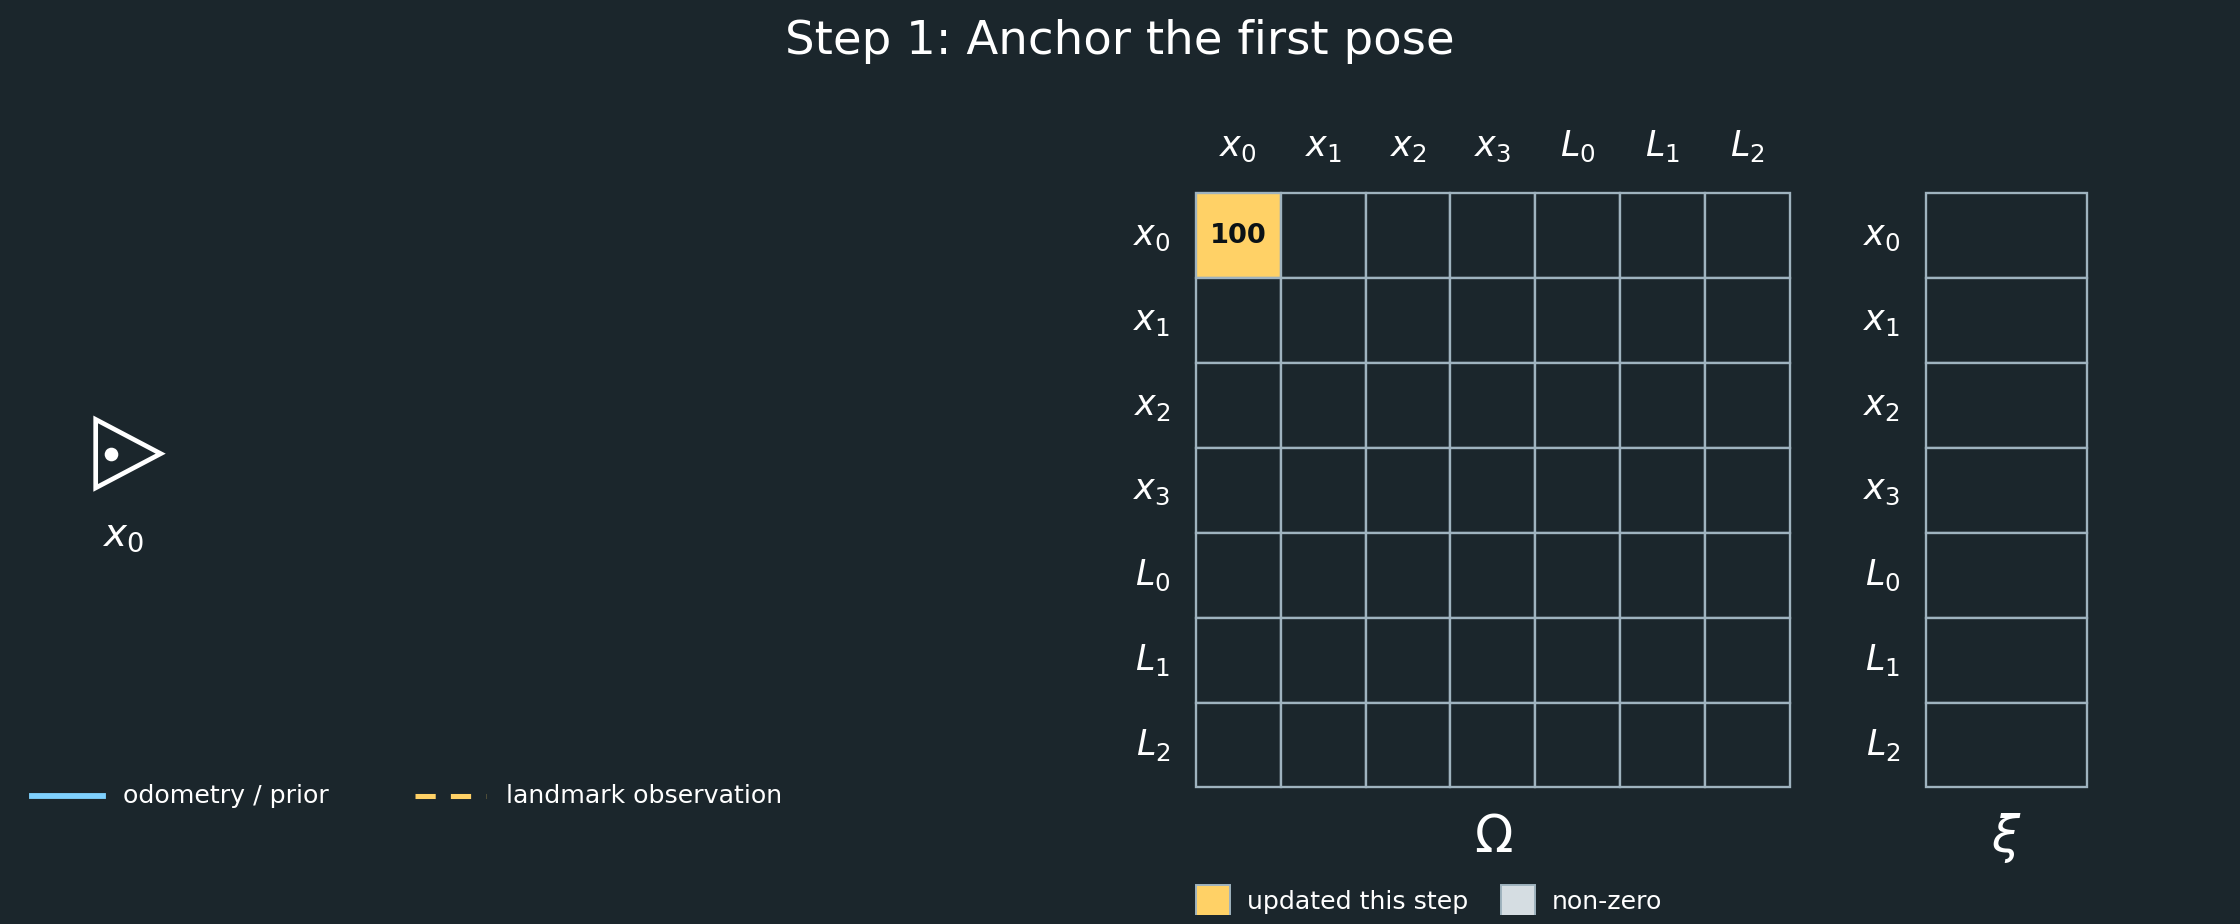
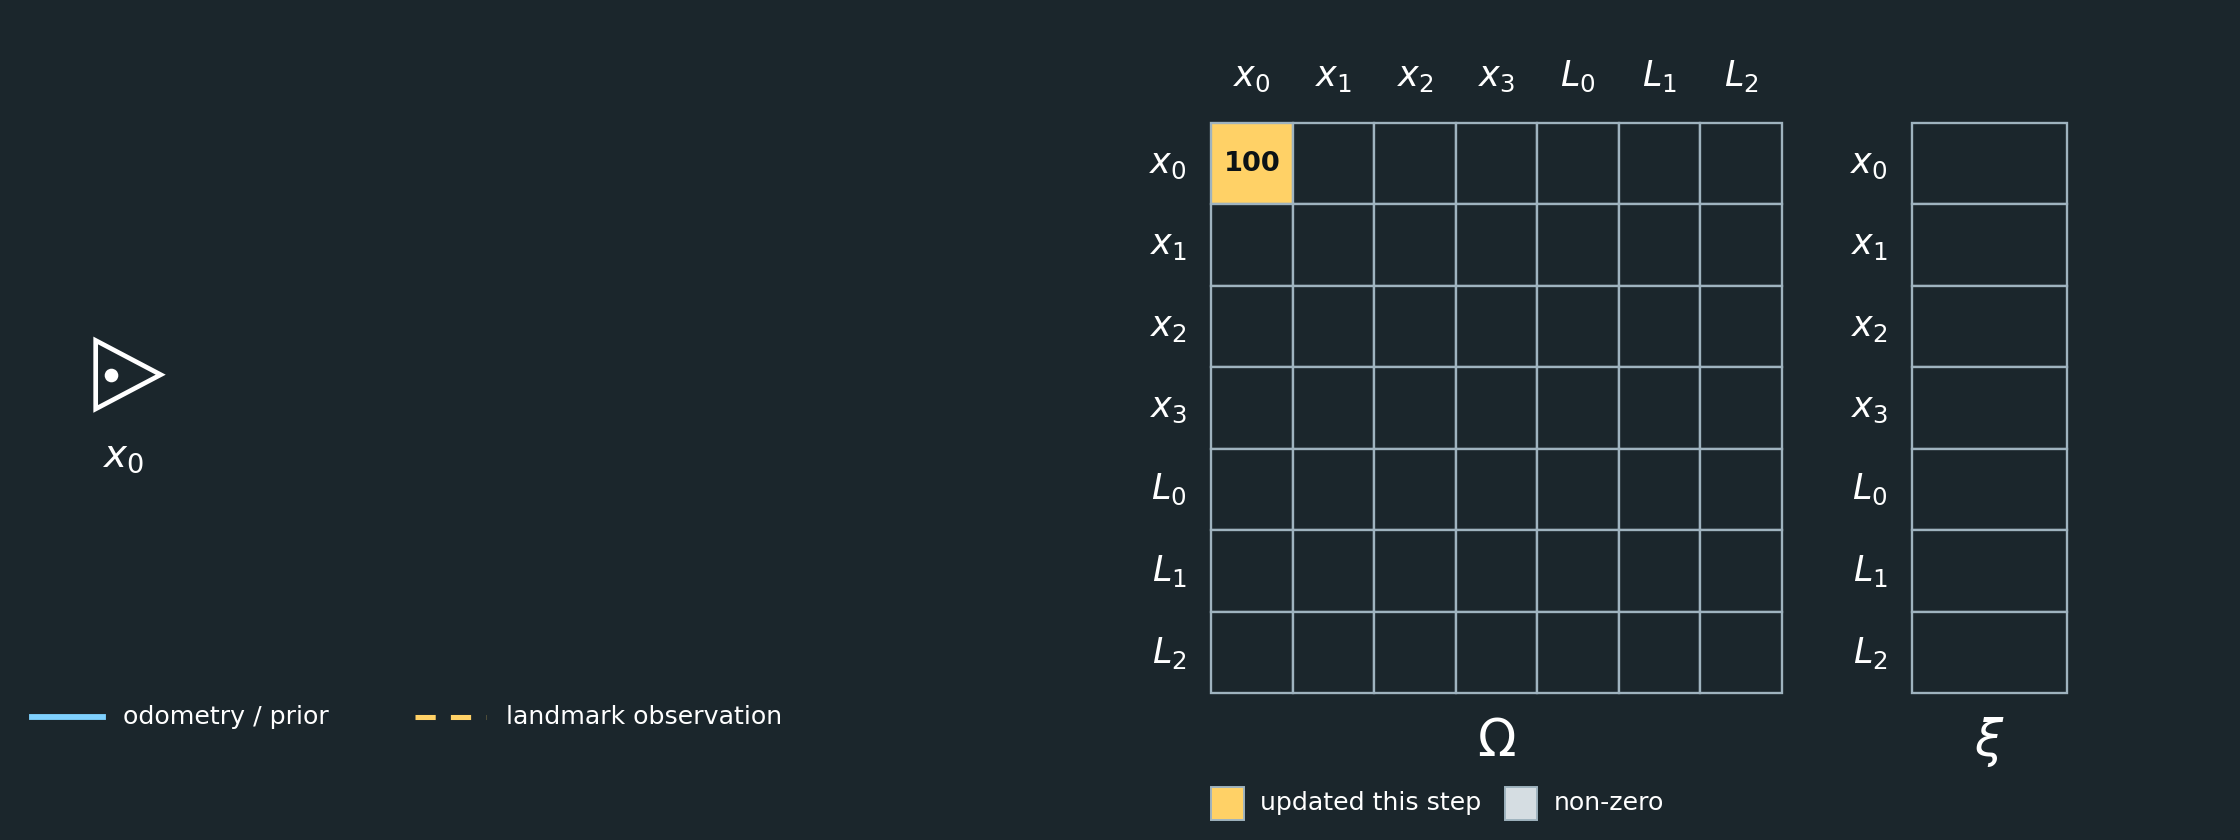
Update 1D GraphSLAM example documentation and improve figure layouts

diff --git a/Graph_SLAM/generate_step_figures.py b/Graph_SLAM/generate_step_figures.py
@@ -129,7 +129,7 @@ def draw_graph(ax, nodes, edges):
 def draw_system(ax, omega, xi, prev_omega, prev_xi):
     n = len(NAMES)
     ax.set_xlim(-1.3, 10.6)
-    ax.set_ylim(n + 1.5, -1.3)
+    ax.set_ylim(n + 1.8, -1.3)
     ax.set_aspect("equal")
     ax.axis("off")
     xi_x, xi_w = 8.6, 1.9
@@ -187,9 +187,9 @@ def star_marker():
     return pts
 
 
-def draw_world(fig, title, odoms, obs, positions, conflict_note):
+def draw_world(fig, odoms, obs, positions, conflict_note):
     """Literal 1D view: every node sits at its measured position on one metre axis."""
-    ax = fig.add_axes([0.02, 0.02, 0.96, 0.84])
+    ax = fig.add_axes([0.02, 0.01, 0.96, 0.98])
     ax.set_facecolor(BG)
     ax.set_xlim(-1.9, 6.1)
     ax.set_ylim(-5.0, 6.8)
@@ -255,10 +255,6 @@ def draw_world(fig, title, odoms, obs, positions, conflict_note):
     if conflict_note:
         ax.text(5.95, -4.6, conflict_note, color=CONFLICT, fontsize=14, ha="right", va="center")
 
-    fig.text(0.5, 0.955, title, color=TEXT, fontsize=24, ha="center", va="center")
-    fig.text(0.5, 0.905, "1D world view: every pose and landmark placed on one line at the position its "
-             "measurements imply", color=GRID, fontsize=14, ha="center", va="center")
-
 
 def main():
     os.makedirs(OUT_DIR, exist_ok=True)
@@ -269,7 +265,7 @@ def main():
     odoms, obs = [], []
     conflict_note = ""
 
-    for (title, measurements), fname, world_fname in zip(STEPS, FILES, WORLD_FILES):
+    for (_, measurements), fname, world_fname in zip(STEPS, FILES, WORLD_FILES):
         prev_omega, prev_xi = omega.copy(), xi.copy()
         for kind, a, b, z, w in measurements:
             add_measurement(omega, xi, kind, a, b, z, w)
@@ -293,15 +289,14 @@ def main():
                 obs.append((a, b, z, end, conflict))
         conflict_note_fig = conflict_note.replace("L0", "$L_0$").replace("x0", "$x_0$").replace("x1", "$x_1$")
 
-        fig = plt.figure(figsize=(16, 6.6), facecolor=BG)
-        fig.text(0.5, 0.955, title, color=TEXT, fontsize=24, ha="center", va="center")
-        draw_graph(fig.add_axes([0.01, 0.03, 0.40, 0.86]), nodes, edges)
-        draw_system(fig.add_axes([0.43, 0.01, 0.56, 0.90]), omega, xi, prev_omega, prev_xi)
+        fig = plt.figure(figsize=(16, 6.0), facecolor=BG)
+        draw_graph(fig.add_axes([0.01, 0.02, 0.40, 0.96]), nodes, edges)
+        draw_system(fig.add_axes([0.43, 0.0, 0.56, 0.98]), omega, xi, prev_omega, prev_xi)
         fig.savefig(os.path.join(OUT_DIR, fname), dpi=140, facecolor=BG)
         plt.close(fig)
 
-        fig = plt.figure(figsize=(16, 7.4), facecolor=BG)
-        draw_world(fig, title, odoms, obs, positions, conflict_note_fig)
+        fig = plt.figure(figsize=(16, 6.6), facecolor=BG)
+        draw_world(fig, odoms, obs, positions, conflict_note_fig)
         fig.savefig(os.path.join(OUT_DIR, world_fname), dpi=140, facecolor=BG)
         plt.close(fig)
 

diff --git a/Graph_SLAM/graphslam_1d_example.md b/Graph_SLAM/graphslam_1d_example.md
@@ -112,6 +112,10 @@ So:
 
 ## Step 1: Anchor the First Pose
 
+Each step begins with a literal **1D world view**. Every pose and landmark is placed on a single metre axis at the position its measurements imply. Blue arrows below the axis are odometry measurements, and yellow arrows above it are landmark observations, each spanning the distance it measures. Landmarks are drawn slightly above the axis only so they do not overlap poses at nearly the same position; the dotted guide lines show where they sit on the axis. A red arrow marks an observation that disagrees with an earlier one.
+
+![Step 1 on a number line: only the anchored pose x0 at 0 m exists, held by a high-confidence prior.](images/step1_world_1d.png)
+
 SLAM only determines relative positions unless we choose a reference frame.
 
 We therefore define
@@ -182,15 +186,13 @@ It means:
 
 ![Step 1: a single anchored pose node with a strong prior. The information matrix is mostly zero except for the leading diagonal entry at x0, which encodes the high-confidence prior.](images/step1_anchor.png)
 
-![Step 1 on a number line: only the anchored pose x0 at 0 m exists, held by a high-confidence prior.](images/step1_world_1d.png)
-
-Each figure in this walkthrough shows the graph on the left and the system $\Omega\mu=\xi$ on the right. Triangles are poses, stars are landmarks, solid edges are odometry or the prior, and dashed edges are landmark observations. In $\Omega$ and $\xi$, light cells are non-zero entries and yellow cells are the entries changed in that step. Blank dark cells are zero. The figures are generated by [generate_step_figures.py](generate_step_figures.py).
-
-Because the graph layout is only a diagram of connectivity, each step also has a literal **1D world view**. Every pose and landmark is placed on a single metre axis at the position its measurements imply. Blue arrows below the axis are odometry measurements, and yellow arrows above it are landmark observations, each spanning the distance it measures. Landmarks are drawn slightly above the axis only so they do not overlap poses at nearly the same position; the dotted guide lines show where they sit on the axis. A red arrow marks an observation that disagrees with an earlier one.
+After the 1D view and the math, each step ends with a figure showing the graph on the left and the system $\Omega\mu=\xi$ on the right. Triangles are poses, stars are landmarks, solid edges are odometry or the prior, and dashed edges are landmark observations. In $\Omega$ and $\xi$, light cells are non-zero entries and yellow cells are the entries changed in that step. Blank dark cells are zero. All figures are generated by [generate_step_figures.py](generate_step_figures.py).
 
 ---
 
 ## Step 2: Observe Landmark $L_0$
+
+![Step 2 on a number line: from x0 at 0 m, the robot measures landmark L0 at 2.05 m.](images/step2_world_1d.png)
 
 At $x_0$, the robot measures
 
@@ -276,11 +278,11 @@ and
 
 ![Step 2: the first landmark observation adds an edge between x0 and L0. The matrix gains the familiar two-node coupling, and the information vector picks up the corresponding measurement term.](images/step2_landmark.png)
 
-![Step 2 on a number line: from x0 at 0 m, the robot measures landmark L0 at 2.05 m.](images/step2_world_1d.png)
-
 ---
 
 ## Step 3: Move to $x_1$
+
+![Step 3 on a number line: odometry places x1 at 1.10 m, but its observation puts L0 at 1.95 m while x0 put it at 2.05 m, a 0.10 m disagreement shown in red.](images/step3_world_1d.png)
 
 Odometry measures
 
@@ -391,11 +393,11 @@ and
 
 ![Step 3: odometry plus the second landmark observation create a small loop in the graph. The information matrix now has entries coupling x0, x1, and L0, and the vector reflects the combined motion and landmark information.](images/step3_move_to_x1.png)
 
-![Step 3 on a number line: odometry places x1 at 1.10 m, but its observation puts L0 at 1.95 m while x0 put it at 2.05 m, a 0.10 m disagreement shown in red.](images/step3_world_1d.png)
-
 ---
 
 ## Step 4: Move to $x_2$
+
+![Step 4 on a number line: odometry places x2 at 2.00 m, and it observes new landmark L1 at 3.55 m.](images/step4_world_1d.png)
 
 Suppose odometry reports
 
@@ -453,8 +455,6 @@ and
 
 ![Step 4: the graph grows to include x2 and the new landmark L1. The sparse matrix develops a second local loop, and the vector accumulates the added odometry and landmark constraints.](images/step4_move_to_x2.png)
 
-![Step 4 on a number line: odometry places x2 at 2.00 m, and it observes new landmark L1 at 3.55 m.](images/step4_world_1d.png)
-
 Notice that $L_1$ has only been seen once.
 
 That observation places $L_1$ relative to $x_2$, but it does not yet provide redundancy.
@@ -462,6 +462,8 @@ That observation places $L_1$ relative to $x_2$, but it does not yet provide red
 ---
 
 ## Step 5: Move to $x_3$
+
+![Step 5 on a number line: odometry places x3 at 3.20 m, and it observes new landmark L2 at 5.12 m. L0 remains the only landmark with conflicting observations.](images/step5_world_1d.png)
 
 Suppose odometry reports
 
@@ -522,8 +524,6 @@ and
 ```
 
 ![Step 5: the final graph includes the full trajectory and all landmarks. The structure of Omega reflects the chain of pose-to-pose constraints plus the landmark observations, while xi stores the accumulated information from every measurement.](images/step5_final.png)
-
-![Step 5 on a number line: odometry places x3 at 3.20 m, and it observes new landmark L2 at 5.12 m. L0 remains the only landmark with conflicting observations.](images/step5_world_1d.png)
 
 ---
 
